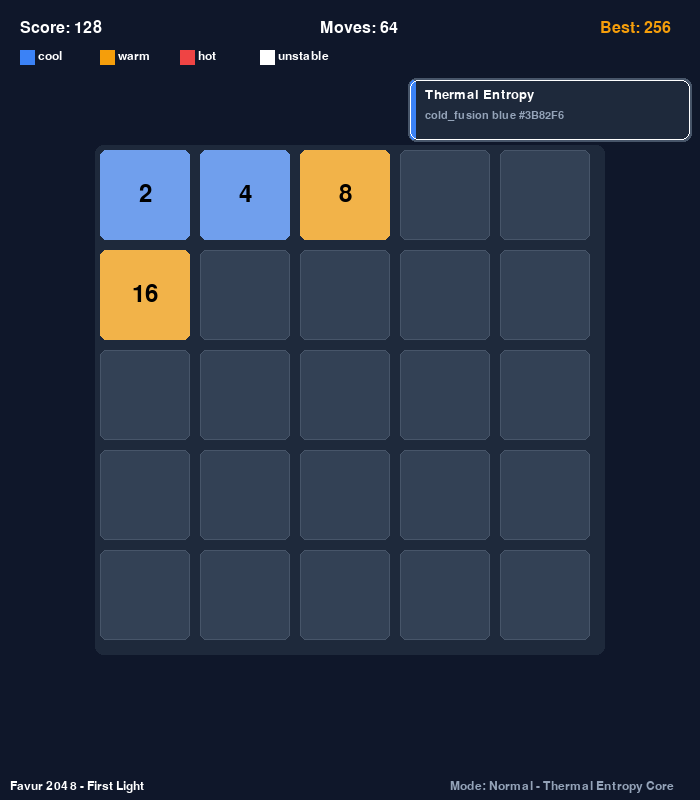
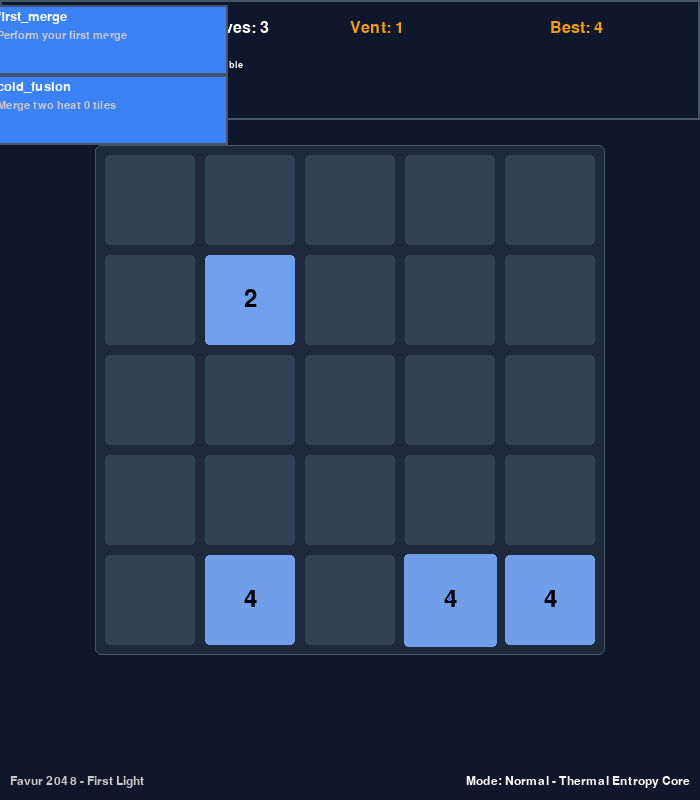
feat(sprint-review): Sprint 2 complete - Visual-Proof Sweep Finalization + Manifest + Phase Exit APPROVE

diff --git a/tests/test_isolation_phase5.py b/tests/test_isolation_phase5.py
@@ -12,7 +12,7 @@ Sprint: registry://sprints/phase-5-sprint-2.md
 - AC-9 hud.py HUD score high-score move count vent_streak unstable_survival heat legend always-on reactor chrome
 - AC-10 headless importable all core modules without DISPLAY
 
-System: Isolation verification per pseudocode phase_5_sprint_1_task_3_4_code.md
+System: Isolation verification per pseudocode phase_5_sprint_2_task_2_4_code.md
 Dependencies: stdlib sys re pathlib struct importlib, pytest, src.core.*
 """
 